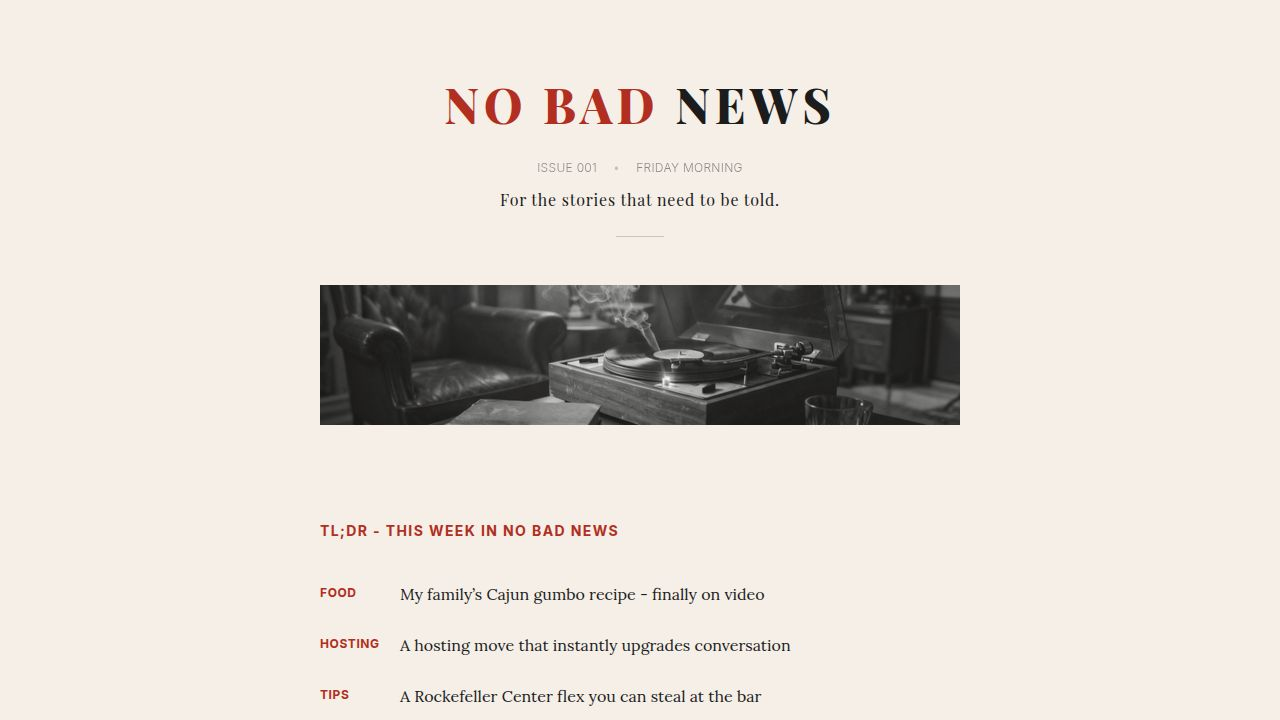
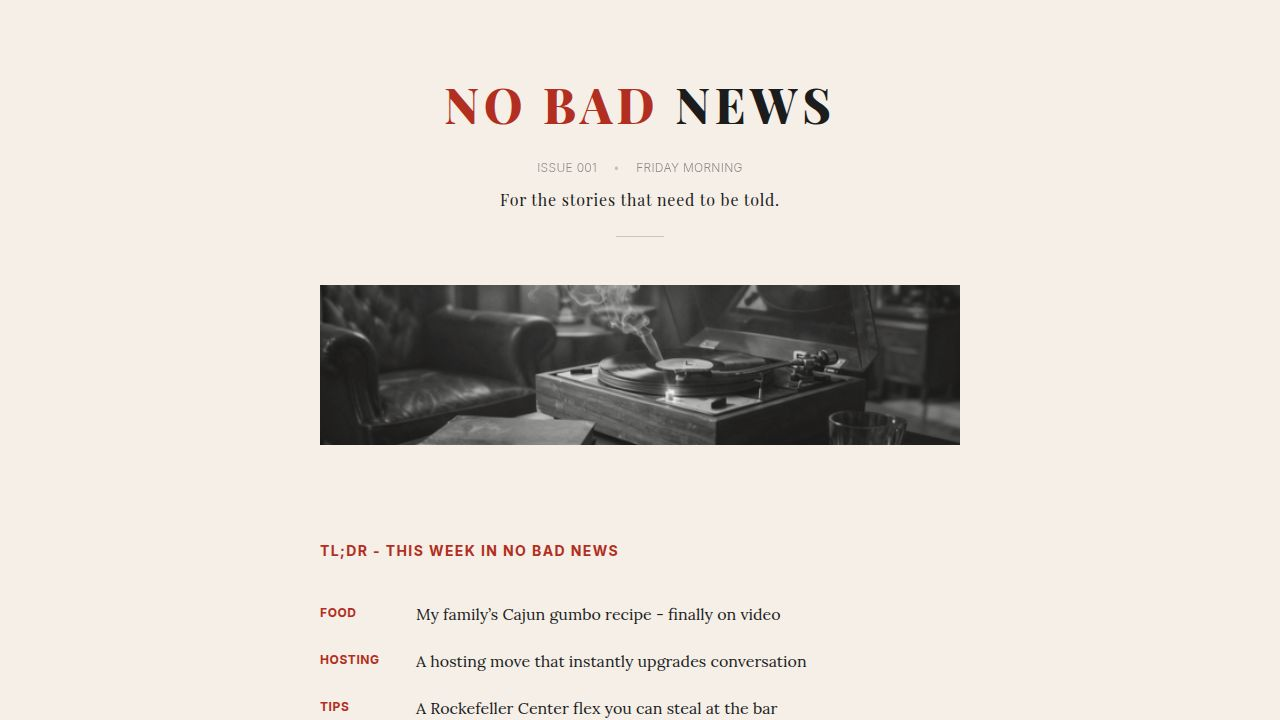
Enhance newsletter's visual appeal and readability with refined spacing and typography
Adjust banner height, TL;DR label prominence, spacing within sections, and footer bar dimensions in Newsletter.tsx.

Replit-Commit-Author: Agent
Replit-Commit-Session-Id: c24dc4d6-a18f-42b6-a049-433b7ea39b54
Replit-Commit-Checkpoint-Type: full_checkpoint
Replit-Commit-Event-Id: d017b5e6-c37d-48e2-8ab2-d5580e6d32ac
Replit-Commit-Screenshot-Url: https://storage.googleapis.com/screenshot-production-us-central1/2a95231f-858c-4646-9f49-a7f55353faed/c24dc4d6-a18f-42b6-a049-433b7ea39b54/vk8q0Gh
Replit-Helium-Checkpoint-Created: true

diff --git a/client/src/pages/Newsletter.tsx b/client/src/pages/Newsletter.tsx
@@ -26,7 +26,7 @@ export default function Newsletter() {
         </header>
 
         {/* Quiet Top Banner */}
-        <div className="w-full h-[140px] mb-24 overflow-hidden grayscale opacity-90">
+        <div className="w-full h-[160px] mb-24 overflow-hidden grayscale opacity-90">
           <img 
             src={bannerImage}
             alt="Atmospheric texture" 
@@ -39,40 +39,40 @@ export default function Newsletter() {
           <h2 className="font-sans text-sm font-bold tracking-widest text-[#B22E21] uppercase mb-10">
             TL;DR - This Week in No Bad News
           </h2>
-          <ul className="space-y-6 font-body text-[#1C1C1C] leading-relaxed">
+          <ul className="space-y-5 font-body text-[#1C1C1C] leading-relaxed">
             <li className="group">
               <a href="#food" className="flex gap-4 w-full no-underline hover:opacity-80 transition-opacity">
-                <span className="shrink-0 font-sans text-xs font-bold text-[#B22E21] tracking-wider w-16 pt-1">FOOD</span>
+                <span className="shrink-0 font-sans text-xs font-bold text-[#B22E21] tracking-wider w-20 pt-1">FOOD</span>
                 <span className="group-hover:text-[#B22E21] transition-colors border-b border-transparent group-hover:border-[#B22E21]/20">My family’s Cajun gumbo recipe - finally on video</span>
               </a>
             </li>
             <li className="group">
               <a href="#hosting" className="flex gap-4 w-full no-underline hover:opacity-80 transition-opacity">
-                <span className="shrink-0 font-sans text-xs font-bold text-[#B22E21] tracking-wider w-16 pt-1">HOSTING</span>
+                <span className="shrink-0 font-sans text-xs font-bold text-[#B22E21] tracking-wider w-20 pt-1">HOSTING</span>
                 <span className="group-hover:text-[#B22E21] transition-colors border-b border-transparent group-hover:border-[#B22E21]/20">A hosting move that instantly upgrades conversation</span>
               </a>
             </li>
             <li className="group">
               <a href="#tips" className="flex gap-4 w-full no-underline hover:opacity-80 transition-opacity">
-                <span className="shrink-0 font-sans text-xs font-bold text-[#B22E21] tracking-wider w-16 pt-1">TIPS</span>
+                <span className="shrink-0 font-sans text-xs font-bold text-[#B22E21] tracking-wider w-20 pt-1">TIPS</span>
                 <span className="group-hover:text-[#B22E21] transition-colors border-b border-transparent group-hover:border-[#B22E21]/20">A Rockefeller Center flex you can steal at the bar</span>
               </a>
             </li>
             <li className="group">
               <a href="#music" className="flex gap-4 w-full no-underline hover:opacity-80 transition-opacity">
-                <span className="shrink-0 font-sans text-xs font-bold text-[#B22E21] tracking-wider w-16 pt-1">MUSIC</span>
+                <span className="shrink-0 font-sans text-xs font-bold text-[#B22E21] tracking-wider w-20 pt-1">MUSIC</span>
                 <span className="group-hover:text-[#B22E21] transition-colors border-b border-transparent group-hover:border-[#B22E21]/20">Frank Ocean “Strawberry Swing” - still undefeated</span>
               </a>
             </li>
             <li className="group">
               <a href="#design" className="flex gap-4 w-full no-underline hover:opacity-80 transition-opacity">
-                <span className="shrink-0 font-sans text-xs font-bold text-[#B22E21] tracking-wider w-16 pt-1">DESIGN</span>
+                <span className="shrink-0 font-sans text-xs font-bold text-[#B22E21] tracking-wider w-20 pt-1">DESIGN</span>
                 <span className="group-hover:text-[#B22E21] transition-colors border-b border-transparent group-hover:border-[#B22E21]/20">A brand that turns desktop icons into real life</span>
               </a>
             </li>
           </ul>
         </section>
-        <div className="w-full h-px bg-[rgba(0,0,0,0.06)] mb-24"></div>
+        <div className="w-full h-px bg-[rgba(0,0,0,0.06)] mb-32"></div>
 
         {/* Editor's Note */}
         <section className="mb-24 pt-4">
@@ -273,7 +273,7 @@ export default function Newsletter() {
             Objects, spaces, and ideas done with intention.
           </p>
           
-          <div className="mb-16 flex justify-center">
+          <div className="mb-12 flex justify-center">
             <div className="w-full max-w-[400px]">
               <img 
                 src="https://cdn.sanity.io/images/06qtbc6i/production/d9913e7dbe18fb4f07bd13f96365cb963748fae0-1800x2400.jpg?w=3000&fm=webp&fit=max&auto=format" 
@@ -293,7 +293,7 @@ export default function Newsletter() {
             <p className="mb-6">
               It works because it does three things at once:
             </p>
-            <ul className="list-disc pl-5 mb-6 space-y-5 marker:text-[#B22E21]">
+            <ul className="list-disc pl-5 mb-6 space-y-3 marker:text-[#B22E21]">
               <li>Feels stupid simple</li>
               <li>Looks insanely clean</li>
               <li>Quietly messes with your sense of reality</li>
@@ -359,7 +359,7 @@ export default function Newsletter() {
         </section>
 
         {/* Footer */}
-        <div className="text-center pb-32">
+        <div className="text-center pb-24">
           <button className="bg-[#B22E21] text-white font-sans font-medium py-4 px-16 rounded-md mb-24 hover:bg-[#96261c] transition-colors cursor-pointer text-sm tracking-widest shadow-none opacity-90 hover:opacity-100 uppercase">
             Join The Red List
           </button>
@@ -367,7 +367,7 @@ export default function Newsletter() {
       </div>
       
       {/* Full Width Footer Band */}
-      <div className="w-full bg-[#2A1F1A]/90 py-16 text-center">
+      <div className="w-full bg-[#2A1F1A]/90 py-12 mt-12 text-center">
         <p className="font-sans text-xs text-[#F5EFE8]/60 tracking-widest uppercase">
           “No Bad Company - for stories that need to be told.”
         </p>
